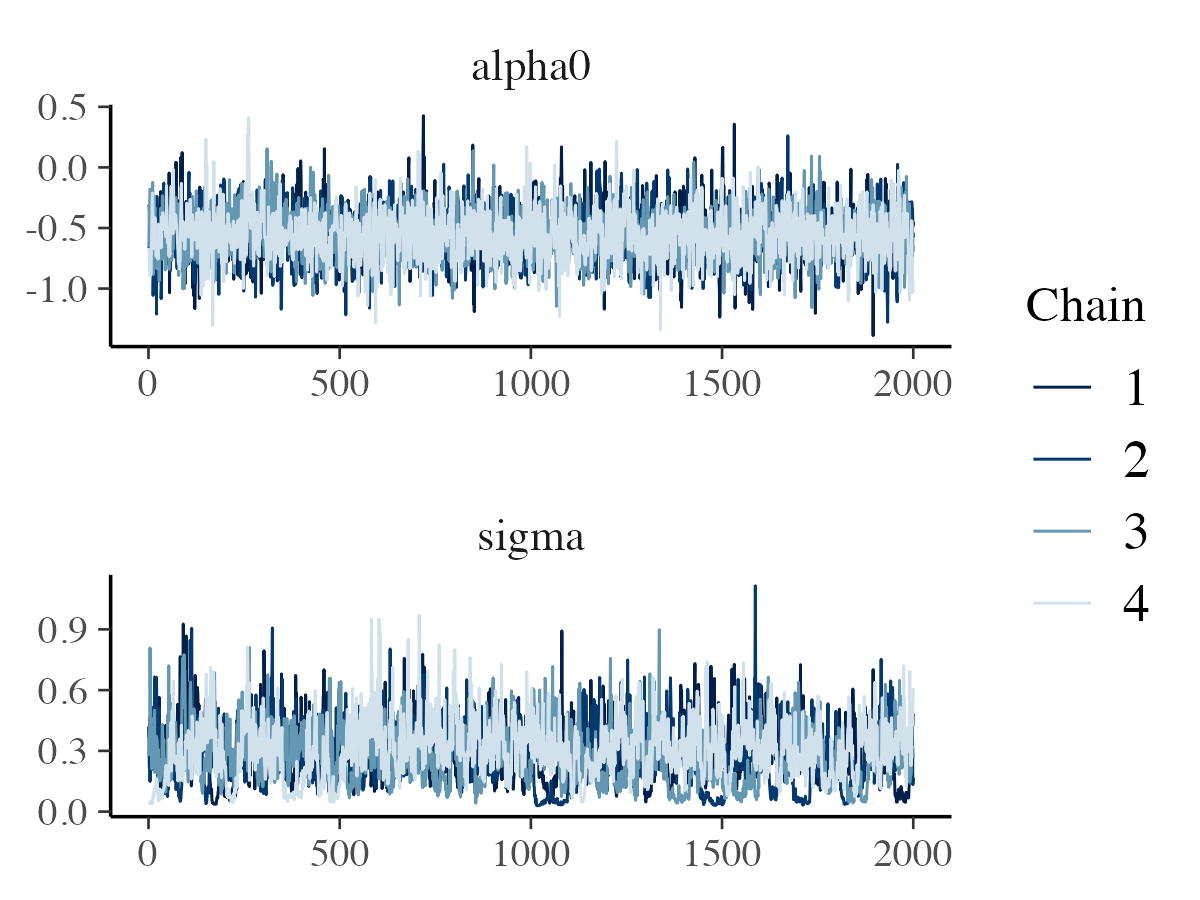
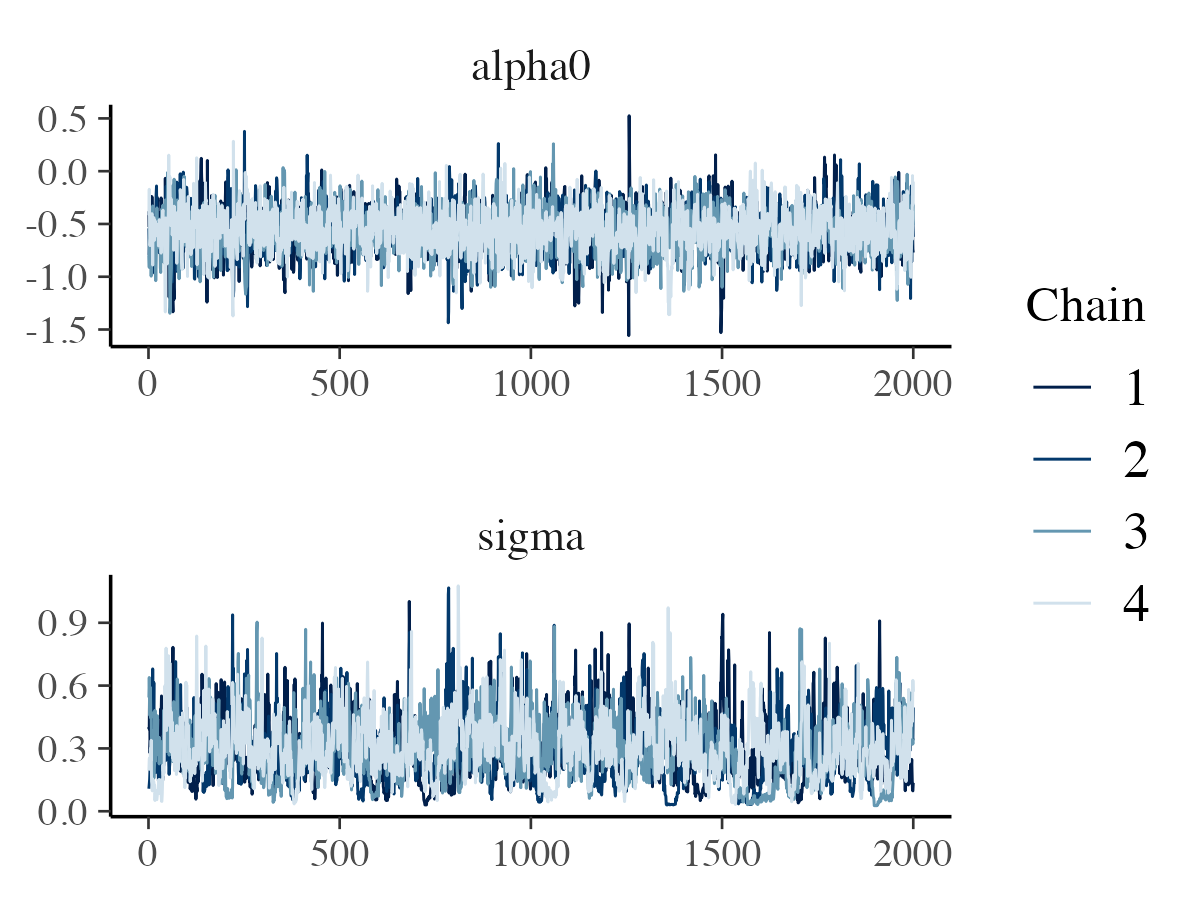
deploy: 60bd40994c01efa324eeb930238df1fc70d96ca8

diff --git a/articles/rjuliabugs.html b/articles/rjuliabugs.html
@@ -259,17 +259,17 @@ through <code>summary</code> function</p>
 <span><span class="co">#&gt; </span></span>
 <span><span class="co">#&gt; Summary Statistics:</span></span>
 <span><span class="co">#&gt; </span></span>
-<span><span class="co">#&gt;  parameters      mean      std     mcse ess_bulk ess_tail  rhat ess_per_sec</span></span>
-<span><span class="co">#&gt;         tau 42.788637 102.6157 7.991592    292.6    225.9 1.023          NA</span></span>
-<span><span class="co">#&gt;     alpha12 -0.824024   0.4386 0.007477   3406.0   4138.7 1.001          NA</span></span>
-<span><span class="co">#&gt;      alpha2  1.352361   0.2711 0.004696   3342.0   4177.7 1.001          NA</span></span>
-<span><span class="co">#&gt;      alpha1  0.082199   0.3150 0.005390   3437.4   4353.1 1.001          NA</span></span>
-<span><span class="co">#&gt;      alpha0 -0.552213   0.1933 0.003337   3348.2   4361.6 1.000          NA</span></span>
-<span><span class="co">#&gt;        b[1] -0.200078   0.2631 0.005949   2032.6   3902.5 1.002          NA</span></span>
-<span><span class="co">#&gt;        b[2]  0.008764   0.2171 0.002871   5839.9   4667.1 1.007          NA</span></span>
-<span><span class="co">#&gt;        b[3] -0.201148   0.2358 0.005439   1862.9   4174.2 1.003          NA</span></span>
-<span><span class="co">#&gt;        b[4]  0.272750   0.2573 0.007719   1111.8   4341.0 1.007          NA</span></span>
-<span><span class="co">#&gt;        b[5]  0.114604   0.2338 0.003877   3950.1   4255.9 1.003          NA</span></span>
+<span><span class="co">#&gt;  parameters     mean      std     mcse ess_bulk ess_tail  rhat ess_per_sec</span></span>
+<span><span class="co">#&gt;         tau 40.23771 110.5683 6.507284    414.5    289.9 1.007          NA</span></span>
+<span><span class="co">#&gt;     alpha12 -0.84034   0.4473 0.008081   3148.6   3400.5 1.001          NA</span></span>
+<span><span class="co">#&gt;      alpha2  1.36184   0.2876 0.005356   3003.5   3030.1 1.001          NA</span></span>
+<span><span class="co">#&gt;      alpha1  0.08920   0.3229 0.005631   3322.6   3822.7 1.001          NA</span></span>
+<span><span class="co">#&gt;      alpha0 -0.55927   0.2036 0.003679   3114.3   3286.1 1.001          NA</span></span>
+<span><span class="co">#&gt;        b[1] -0.20270   0.2680 0.005212   2749.3   3915.8 1.002          NA</span></span>
+<span><span class="co">#&gt;        b[2]  0.01101   0.2312 0.003486   4605.6   4261.9 1.004          NA</span></span>
+<span><span class="co">#&gt;        b[3] -0.20210   0.2377 0.004620   2656.4   3811.8 1.002          NA</span></span>
+<span><span class="co">#&gt;        b[4]  0.28844   0.2683 0.007516   1236.4   3136.7 1.001          NA</span></span>
+<span><span class="co">#&gt;        b[5]  0.12277   0.2490 0.004057   4169.1   3562.3 1.001          NA</span></span>
 <span><span class="co">#&gt;          ...</span></span>
 <span><span class="co">#&gt;   17 rows omitted</span></span></code></pre></div>
 <p>If we wish to obtain the summary statistics for each saved parameter,
@@ -380,7 +380,7 @@ package:</p>
 <span></span>
 <span><span class="co"># Example: effective sample size</span></span>
 <span><span class="fu">posterior</span><span class="fu">::</span><span class="fu"><a href="https://mc-stan.org/posterior/reference/ess_basic.html" class="external-link">ess_basic</a></span><span class="op">(</span><span class="va">posterior</span><span class="op">$</span><span class="va">params</span><span class="op">[</span>,,<span class="st">"alpha0"</span><span class="op">]</span><span class="op">)</span></span>
-<span><span class="co">#&gt; [1] 3356.683</span></span></code></pre></div>
+<span><span class="co">#&gt; [1] 3062.448</span></span></code></pre></div>
 </div>
 <div class="section level2">
 <h2 id="saving-and-loading-the-rjuliabugs-model">Saving and loading the <code>rjuliabugs</code> model<a class="anchor" aria-label="anchor" href="#saving-and-loading-the-rjuliabugs-model"></a>
